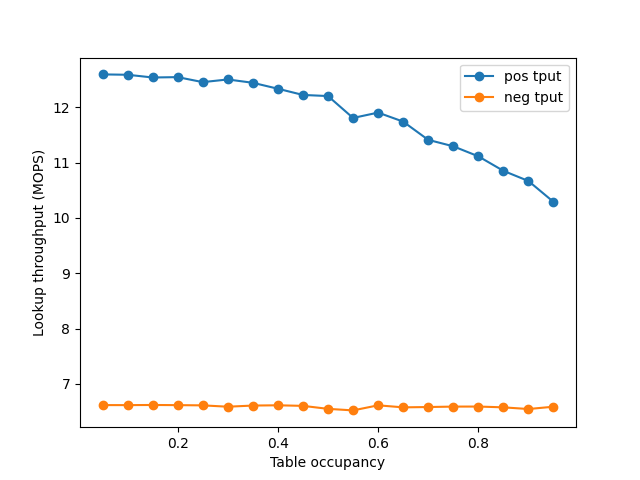
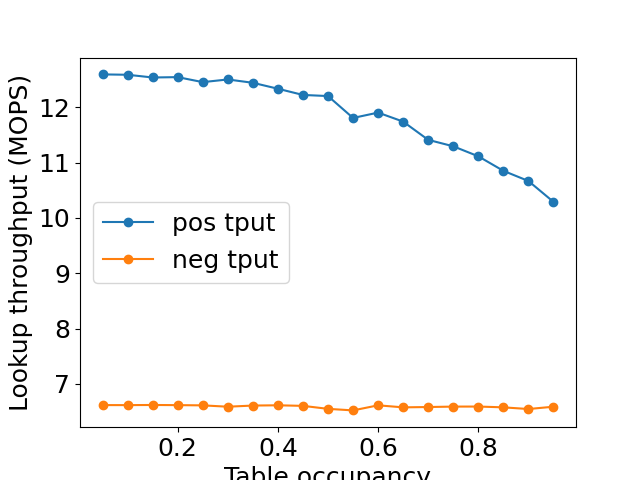
increase font sizes

diff --git a/scripts/lf_lookup.py b/scripts/lf_lookup.py
@@ -18,10 +18,11 @@ with open('../vp_lf_lookup.csv') as file:
         neg_tput.append(float(row[' vp neg']))
         pos_tput.append(float(row[' vp pos']))
 
+plt.rcParams.update({'font.size': 18})
 # max rehash
 fig, fp1 = plt.subplots()
 fp1.plot(occ, max_rh, marker = 'o', label="max # rehash")
-fp1.legend(loc = "upper right")
+fp1.legend(loc = "upper left")
 
 fp1.set_xlabel("Table occupancy")
 fp1.set_ylabel("Maximum # of rehashes")
@@ -33,10 +34,10 @@ fig.savefig("../figures/lf_max_rh_lookup.png")
 # average rehash
 fig, fp1 = plt.subplots()
 fp1.plot(occ, avg_rh, marker = 'o', label="avg. # rehash")
-fp1.legend(loc = "upper right")
+fp1.legend(loc = "upper left")
 
 fp1.set_xlabel("Table occupancy")
-fp1.set_ylabel("Average # of rehashes per bucket")
+fp1.set_ylabel("Avg # of rehashes / bucket")
 
 # plt.grid(True)
 plt.show()
@@ -47,7 +48,7 @@ fig, fp1 = plt.subplots()
 fp1.plot(occ, pos_tput, marker = 'o', label="pos tput")
 fp1.plot(occ, neg_tput, marker = 'o', label="neg tput")
 
-fp1.legend(loc = "upper right")
+fp1.legend(loc = "center left")
 
 fp1.set_xlabel("Table occupancy")
 fp1.set_ylabel("Lookup throughput (MOPS)")

diff --git a/scripts/size_lookup.py b/scripts/size_lookup.py
@@ -41,6 +41,7 @@ with open('../vp_size_lookup.csv') as file:
 bfc_size = [s / 10**6 for s in bfc_size]
 vp_size = [s / 10**6 for s in vp_size]
 
+plt.rcParams.update({'font.size': 14})
 
 # Positive + Negative lookup throughput
 fig, fp1 = plt.subplots()
@@ -58,11 +59,13 @@ fp1.set_ylabel("Lookup throughput (MOPS)")
 plt.show()
 fig.savefig("../figures/size_lookup.png")
 
+plt.rcParams.update({'font.size': 18})
+
 # total memory/size
 fig, fp1 = plt.subplots()
 fp1.plot(num_items, bfc_size, marker = 'o', label="BFC")
 fp1.plot(num_items, vp_size, marker = 'o', label="VP")
-fp1.legend(loc = "upper right")
+fp1.legend(loc = "upper left")
 xticklabels = ['{:,}'.format(int(x)) + 'K' for x in fp1.get_xticks()/1000]
 fp1.set_xticklabels(xticklabels)
 fp1.set_xlabel("Number of items") #  $\mathregular{10^8}$

diff --git a/scripts/cert_rehash_dist.py b/scripts/cert_rehash_dist.py
@@ -36,6 +36,11 @@ print(cumulative)
 percent_cumu.insert(0, 0)
 print(percent_cumu)
 
+size = 16
+plt.rc('axes', titlesize=size)
+plt.rc('axes', labelsize=size)
+plt.rcParams.update({'font.size': 12})
+
 # fig = plt.figure()
 fig, ax = plt.subplots()
 ax.locator_params(integer=True)
@@ -50,7 +55,6 @@ plt.ylabel("Frequency out of Total Buckets")
 plt.title("Bucket Rehashing Frequency Distribution")
 ax.yaxis.set_major_formatter(mtick.PercentFormatter())
 ax.legend()
-
 
 """
 ax2 = ax.twinx()

diff --git a/scripts/cert_fp_rates.py b/scripts/cert_fp_rates.py
@@ -31,6 +31,11 @@ fp_decr  = np.array([x * -1 for x in fp_decr])
 print(fp_decr)
 # lup_round.pop(0)
 
+size = 16
+plt.rc('axes', titlesize=size)
+plt.rc('axes', labelsize=size)
+plt.rcParams.update({'font.size': 12})
+
 fig, fp1 = plt.subplots()
 fp1.locator_params(integer=True)
 plt.xticks(np.arange(min(lup_round), max(lup_round)+1, 1.0))
